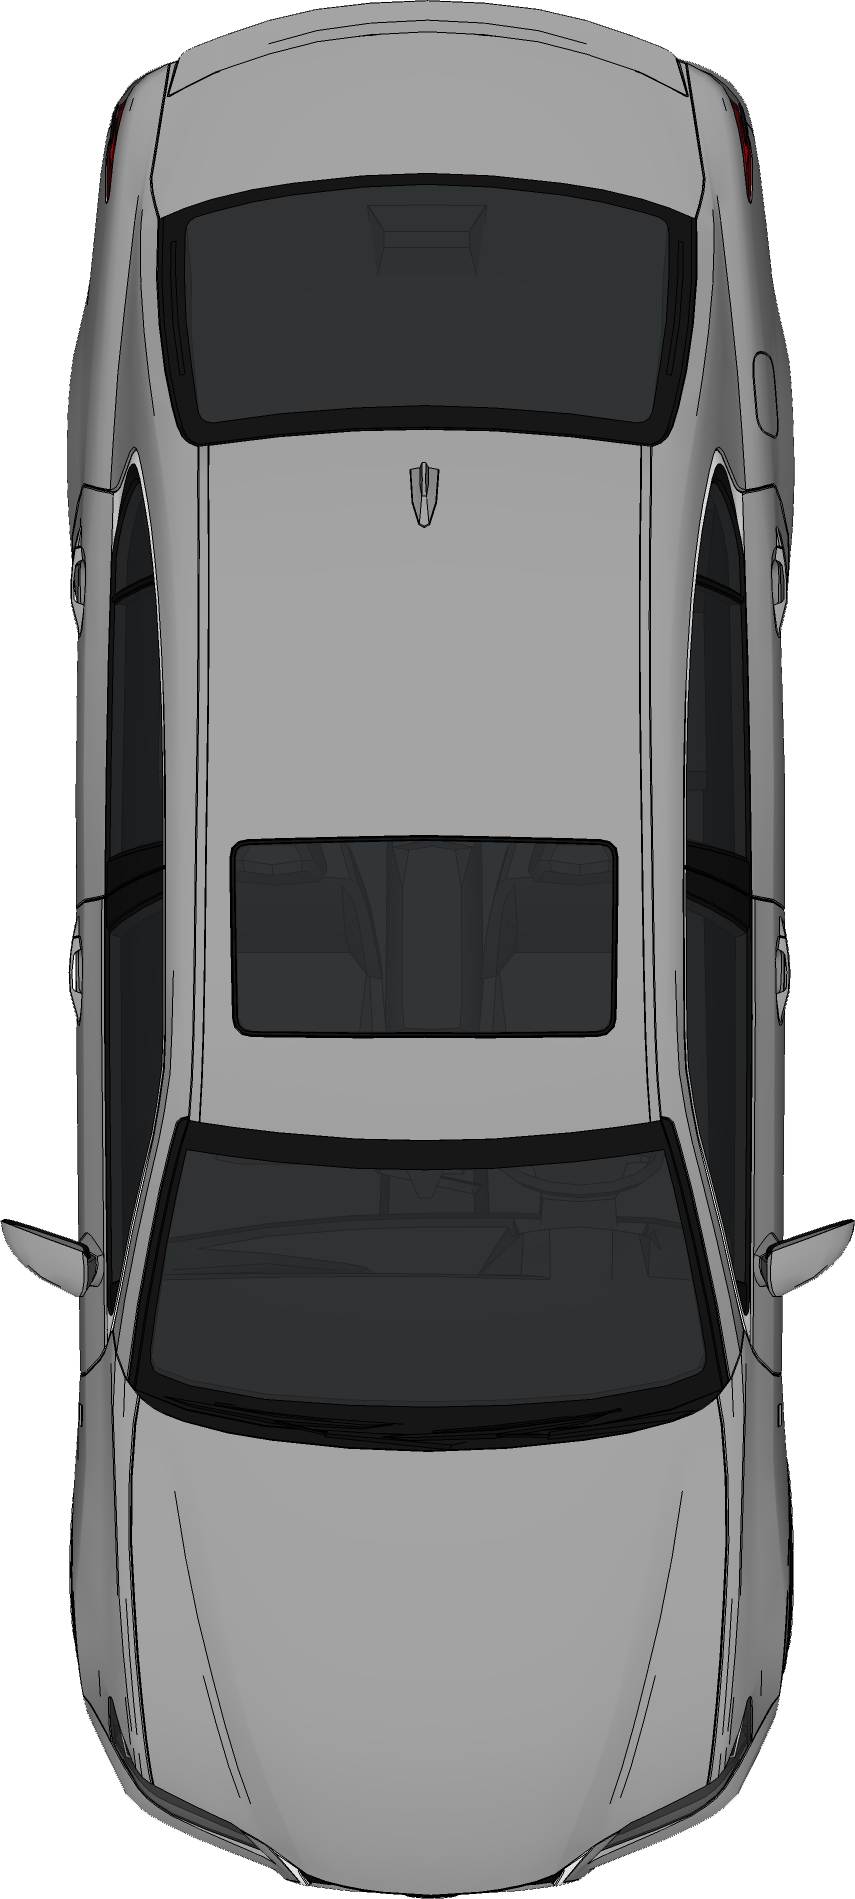
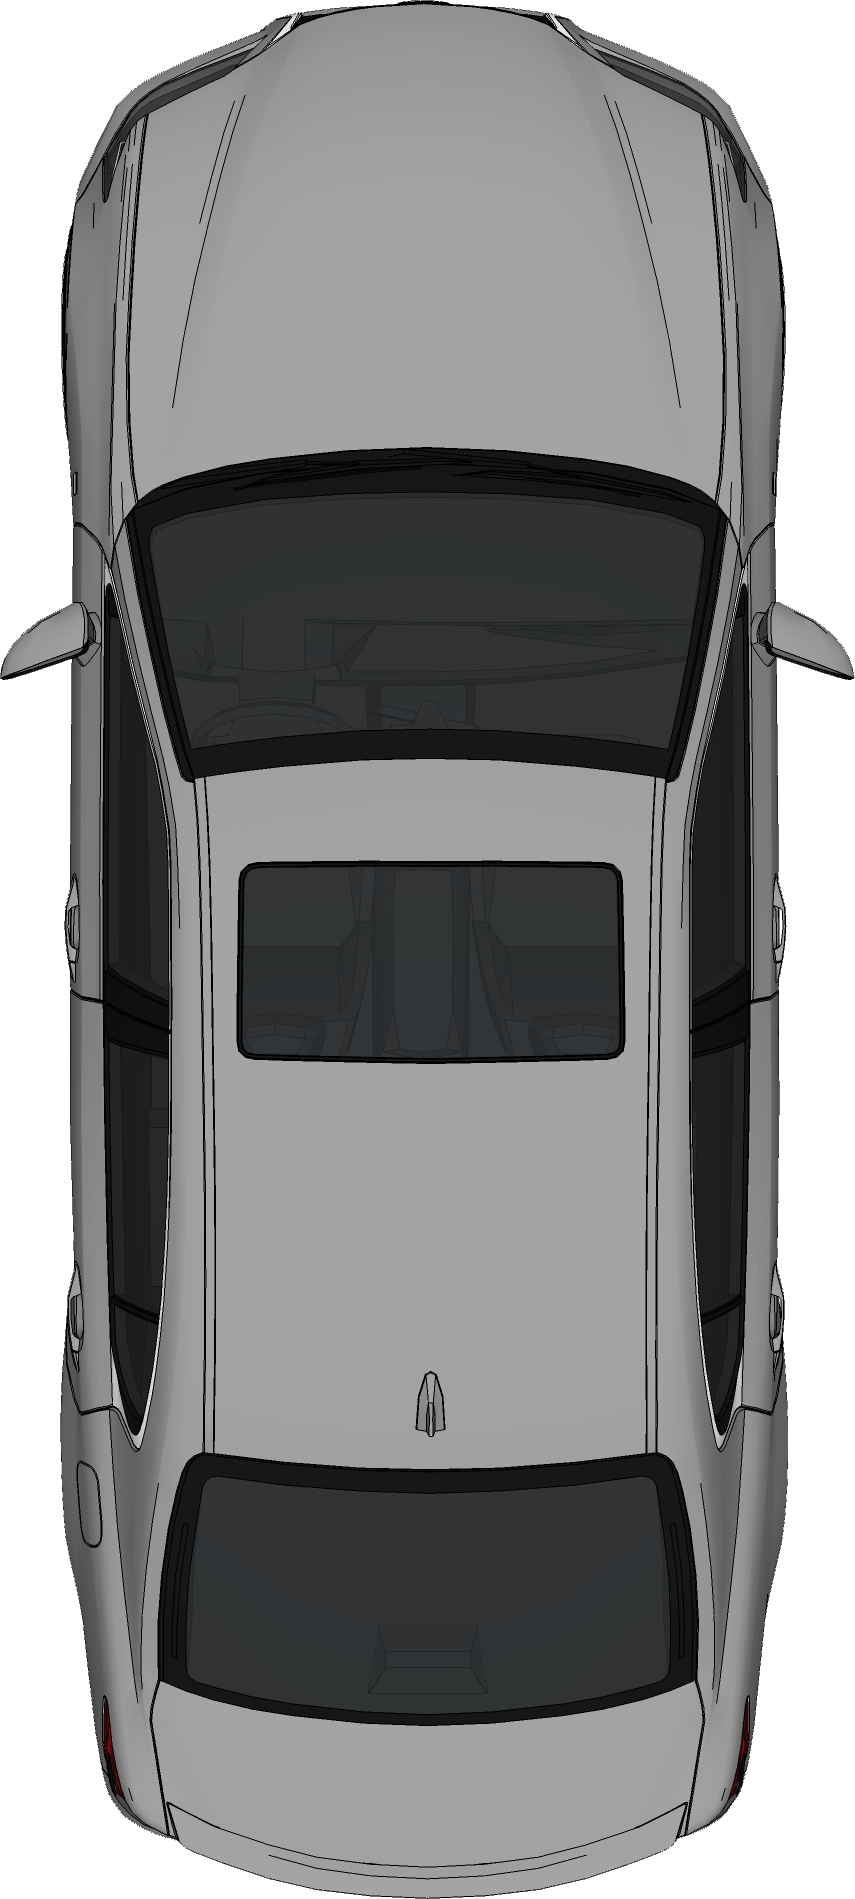
updated work g-11

diff --git a/La-2_showcar.py b/La-2_showcar.py
@@ -2,7 +2,7 @@ import pygame
 pygame.init()
 window = pygame.display.set_mode((1200, 400))
 track = pygame.image.load('track1.png')
-car = pygame.image.load('c2.png')
+car = pygame.image.load('SeekPng.com_car-top-view-png_544318.png')
 car= pygame.transform.scale(car,(40,60))
 drive = True
 while drive :

diff --git a/move-car-on-track.py b/move-car-on-track.py
@@ -2,7 +2,7 @@ import pygame
 pygame.init()
 window = pygame.display.set_mode((1200, 400))
 track = pygame.image.load('track1.png')
-car = pygame.image.load('c2.png')
+car = pygame.image.load('SeekPng.com_car-top-view-png_544318.png')
 car= pygame.transform.scale(car,(40,60))
 drive = True
 while drive :

diff --git a/l-3-movecar2.py b/l-3-movecar2.py
@@ -2,7 +2,7 @@ import pygame
 pygame.init()
 window = pygame.display.set_mode((1200, 400))
 track = pygame.image.load('track1.png')
-car = pygame.image.load('c2.png')
+car = pygame.image.load('SeekPng.com_car-top-view-png_544318.png')
 car= pygame.transform.scale(car,(40,60))
 car_x = 155
 car_y =300
